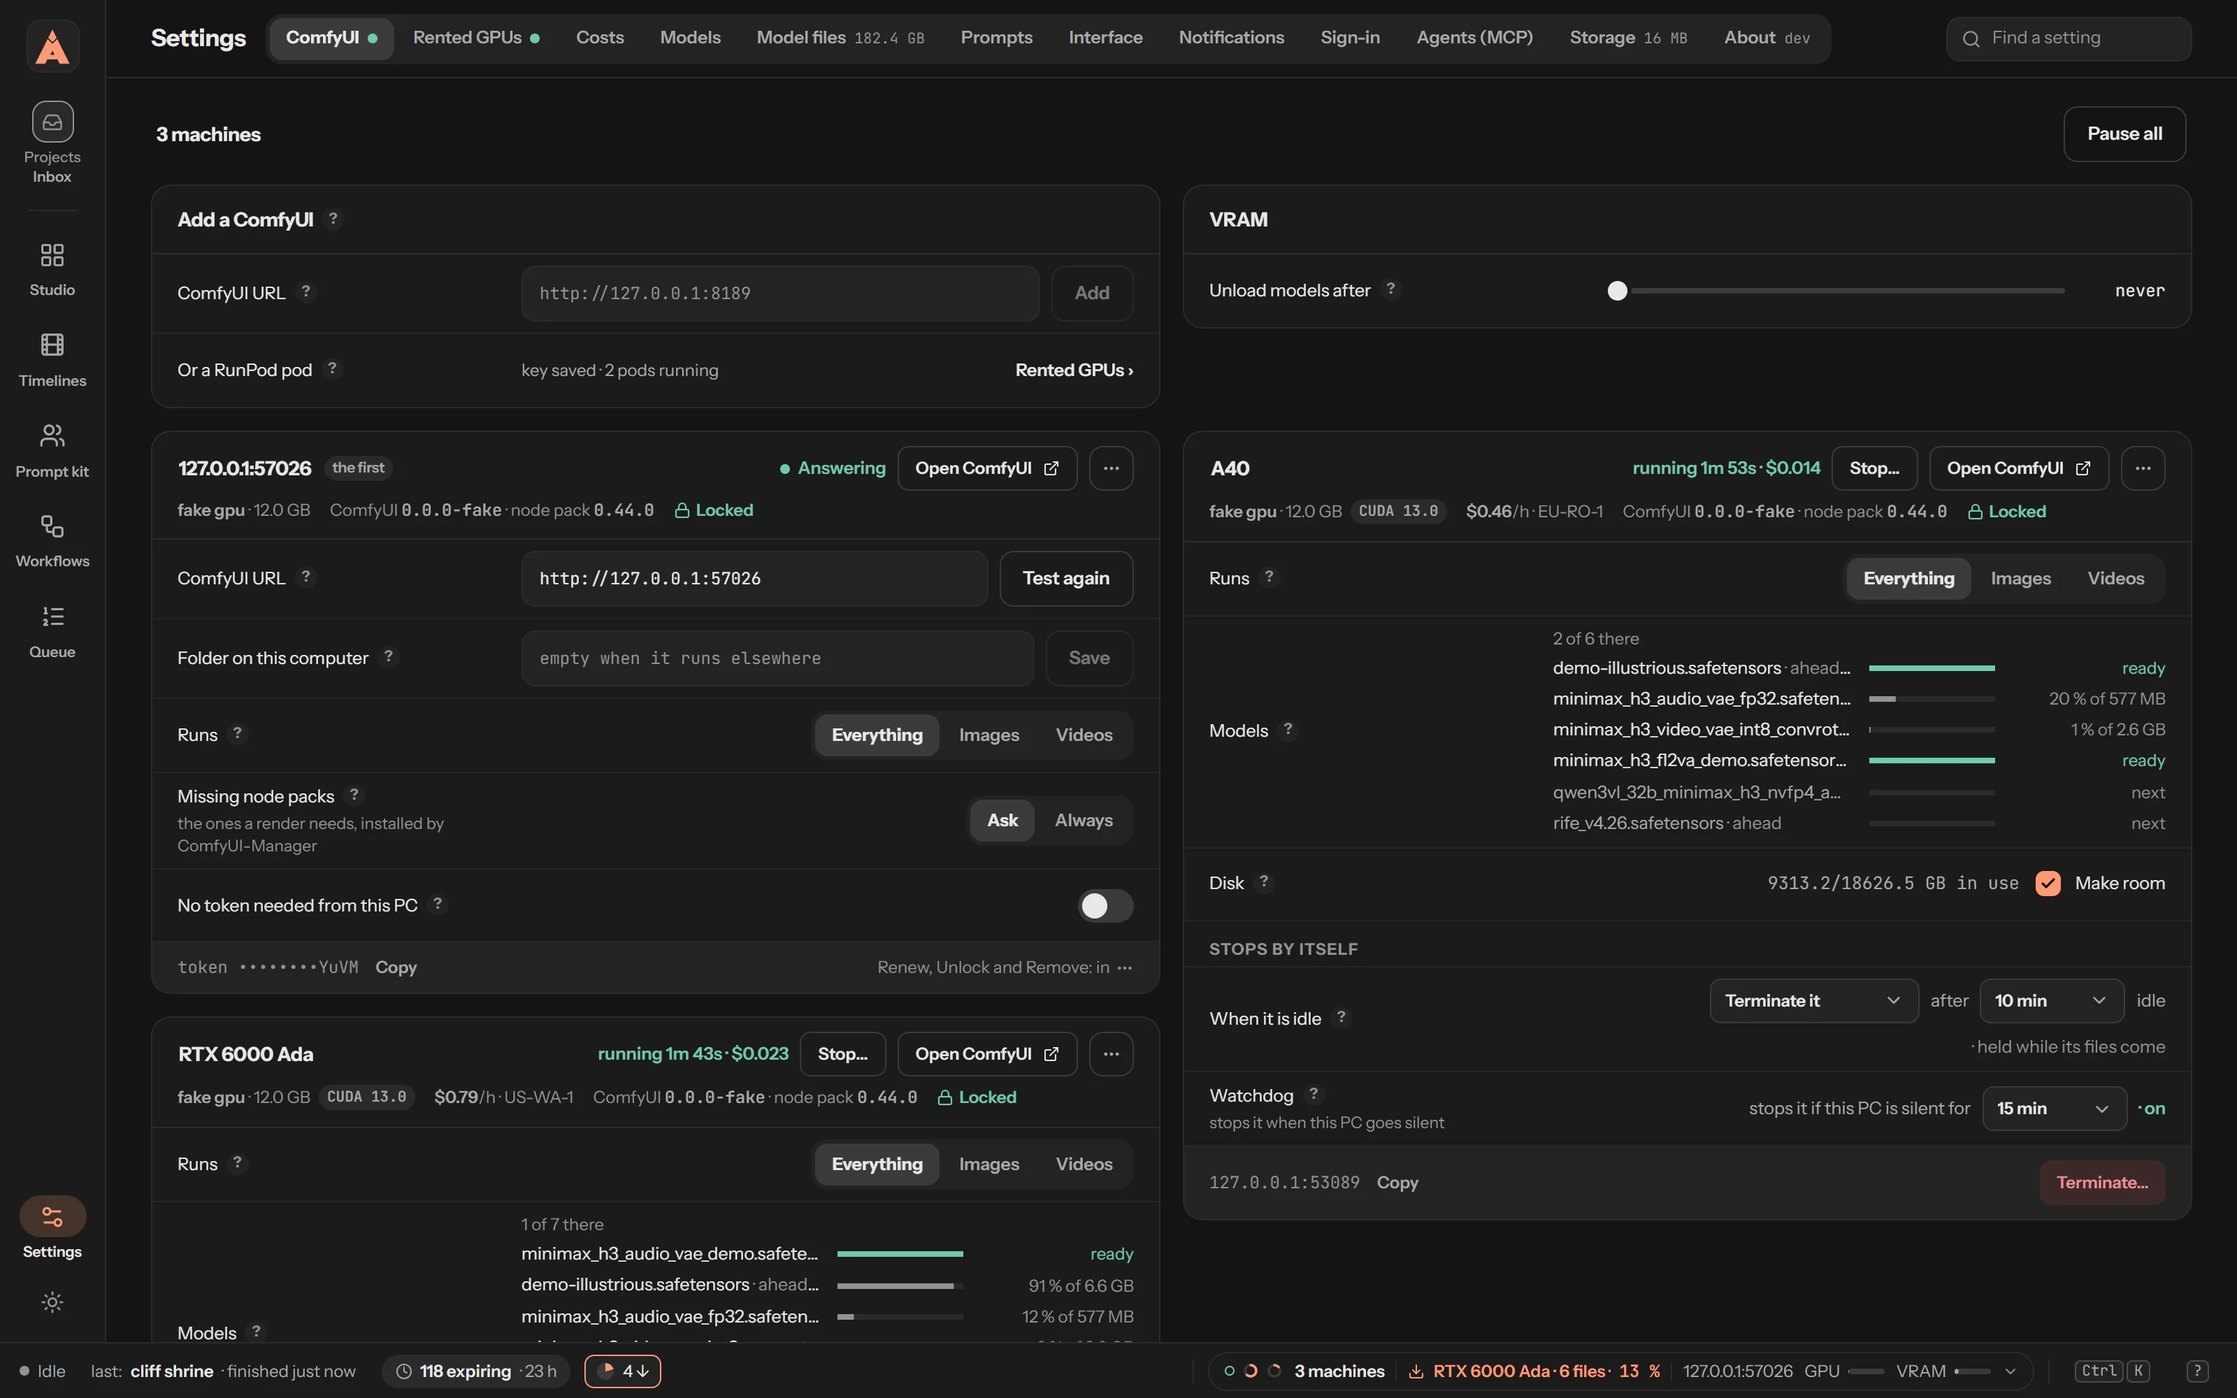
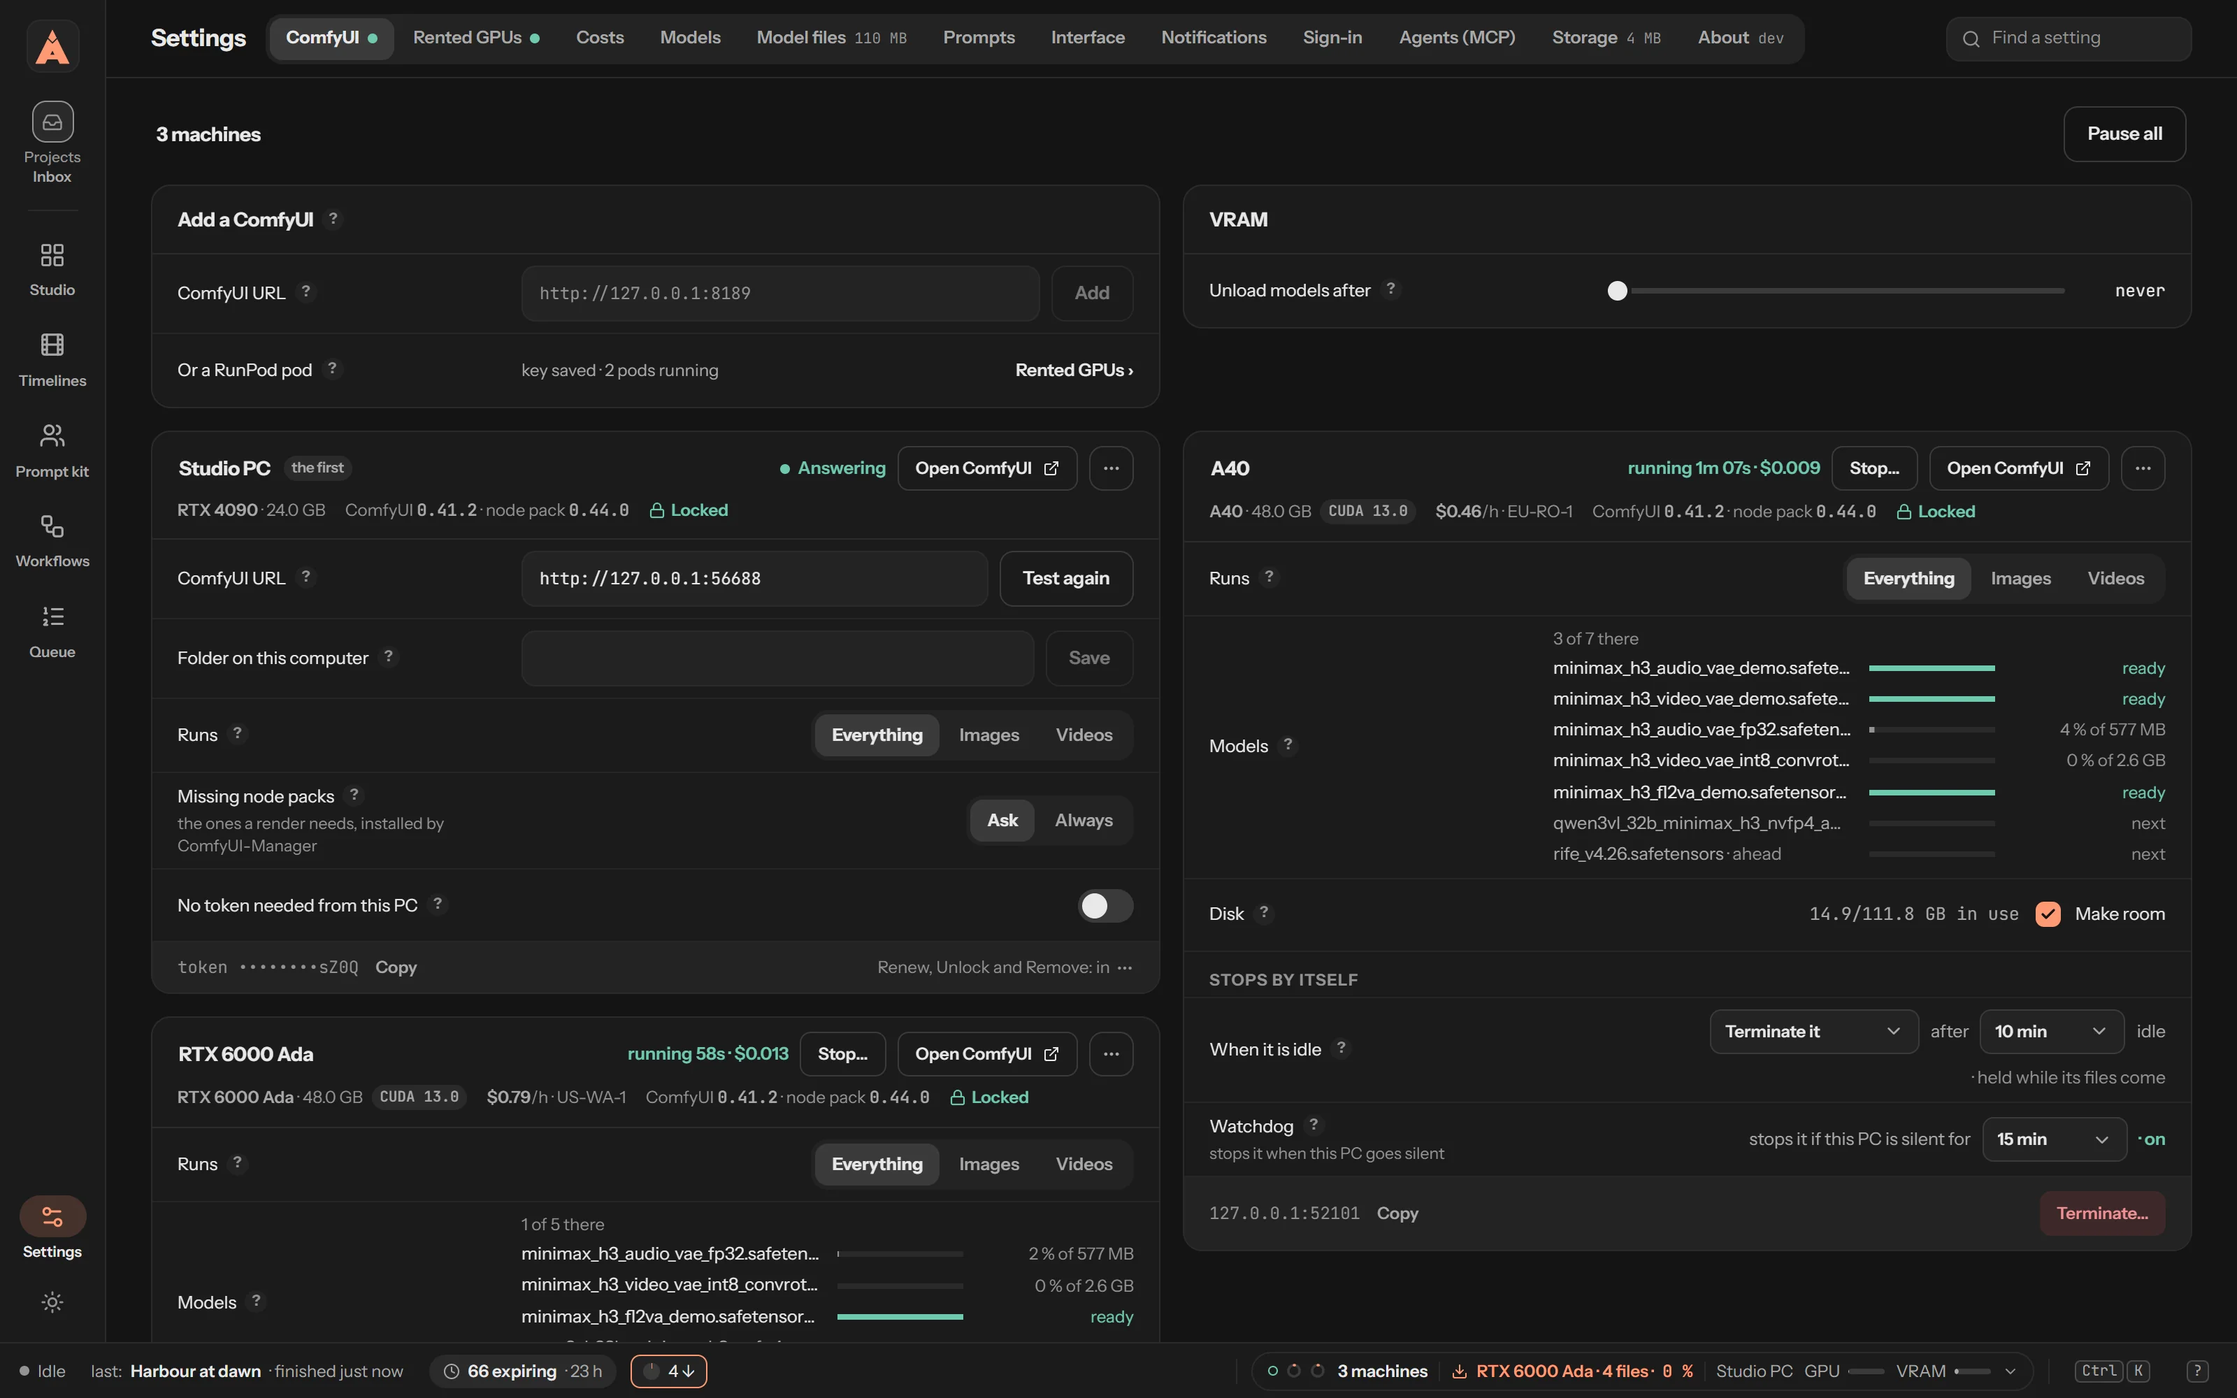
The demo's machines say what a real one would, and the queue and pods pictures retaken with them (card #51)
- The pretend ComfyUI can say a card (device: name, memory) in /system_stats and the live monitor, and a video workflow's own step (simulate.videoStepMs); left out, "fake gpu", 12 GB and one step for all, as the tests have it. The pretend RunPod hands a deployed pod's GPU to spawn.
- The demo: ComfyUI 0.41.2 everywhere; this PC an RTX 4090 24 GB, named "Studio PC" (one machine alone too, its folder kept as it was found), the other machines an RTX 3090 and a 4070 Ti SUPER; each pod its RunPod card and memory, a 120 GB container disk; DEMO_VIDEO_STEP_MS=9000 renders a video in minutes, as the seeded times say (left out, as fast as a picture).
- run.webp and pods.webp shot again on it: Studio PC rendering an H3 clip (2:20 left, 18.7 of 24 GB), the A40 and the RTX 6000 Ada at 48 GB, their files arriving, the disk 14.9 of 111.8 GB.

diff --git a/scripts/demo.ts b/scripts/demo.ts
@@ -3,6 +3,8 @@
  * placeholder pictures. For trying the app, and working on it, without a GPU. It never contacts a real
  * ComfyUI: the address in the demo's settings is set to the pretend one on every start.
  *   pnpm demo            then open http://127.0.0.1:8720 (after `pnpm build`), or run the web app's dev server
+ *   DEMO_VIDEO_STEP_MS=9000  a video's step at a real card's pace (an H3 render in minutes, as the seeded times say),
+ *                            for screenshots; left out, videos go as fast as pictures
  */
 import { spawnSync } from "node:child_process";
 import { createServer } from "node:http";
@@ -140,9 +142,12 @@ const pretendComfy = (lacks?: RegExp, first = false) => startFakeComfy({
     // H3's Fun ControlNet: Motion transfer's windows moved by their pose
     model_patches: ["minimax_h3_fun_controlnet_union_2.0_demo.safetensors"],
   }, lacks),
-  simulate: { stepMs: Number(process.env.DEMO_STEP_MS) || 220, video: pretendClip },
-});
+  simulate: { stepMs: Number(process.env.DEMO_STEP_MS) || 220, videoStepMs: Number(process.env.DEMO_VIDEO_STEP_MS) || undefined, video: pretendClip },
+}).then((c) => Object.assign(c, { version: "0.41.2" }));
 const fake = await pretendComfy(undefined, true);
+// the card each pretend ComfyUI says it has (/system_stats, the live monitor), as a real one would: this computer's first
+const CARDS = [{ name: "NVIDIA GeForce RTX 4090", vramGb: 24 }, { name: "NVIDIA GeForce RTX 3090", vramGb: 24 }, { name: "NVIDIA GeForce RTX 4070 Ti SUPER", vramGb: 16 }];
+fake.device = CARDS[0];
 if (oldComfy) fake.version = oldComfy;
 if (pretendPytorch) fake.pytorch = pretendPytorch;
 // DEMO_MACHINES=2 (up to 8): as many pretend ComfyUIs, as if this computer had that many GPUs (Settings › ComfyUI, the queue's lanes)
@@ -153,6 +158,7 @@ const others = await Promise.all(Array.from({ length: Math.min(7, Math.max(0, (N
 // the pretend ComfyUIs run this repository's node pack, as one Afflatus wrote it into does: its lock among what can be tried
 const PACK = /^version\s*=\s*"([^"]+)"/m.exec(readFileSync(join(root, "comfy-nodes", "afflatus-nodes", "pyproject.toml"), "utf-8"))?.[1] ?? null;
 for (const f of [fake, ...others]) f.packVersion = PACK;
+others.forEach((f, i) => (f.device = CARDS[(i + 1) % CARDS.length]));
 // and its GPU's power, as the pack reads it on an NVIDIA card: a demo render's electricity in Queue › Costs
 for (const f of [fake, ...others]) f.watts = 265;
 // DEMO_RUNPOD=1: a pretend RunPod with three pods (two with a pretend ComfyUI and the node pack, one without ComfyUI's
@@ -161,8 +167,9 @@ for (const f of [fake, ...others]) f.watts = 265;
 // (start.sh's steps, ComfyUI's start) before its ComfyUI answers
 const RUNPOD_KEY = "demo-runpod-key";
 const podComfys: Array<Awaited<ReturnType<typeof pretendComfy>>> = [];
-const pod = async () => {
-  const c = Object.assign(await pretendComfy(), { packVersion: PACK });
+// each pod says its RunPod card and memory, and a container disk of 120 GB with its models' room on it
+const pod = async (gpu: { id: string; memory: number }) => {
+  const c = Object.assign(await pretendComfy(), { packVersion: PACK, device: { name: gpu.id, vramGb: gpu.memory }, diskTotal: 120e9, diskFree: 104e9 });
   // a LoRA and a checkpoint this PC's ComfyUI lacks: the lists say which pod has them, and a job that picks one goes there
   c.models.loras = [...(c.models.loras ?? []), "demo-pod-only-ink.safetensors"];
   c.models.checkpoints = [...(c.models.checkpoints ?? []), "demo-pod-only-xl.safetensors"];
@@ -198,9 +205,9 @@ const pretendRunpod = process.env.DEMO_RUNPOD === "1" ? await startFakeRunpod({
   gpus: FAKE_GPUS.map((g) => (g.id === "NVIDIA L4" ? { ...g, cuda13: false } : g)),
   volumes: [{ id: "demo-volume", name: "afflatus-models", size: 100, dataCenter: "EU-RO-1" }, { id: "demo-old", name: "old-loras", size: 50, dataCenter: "US-TX-3" }],
   pods: [
-    { name: "comfy-5090", rate: 0.69, gpu: "NVIDIA GeForce RTX 5090", dataCenterId: "EU-RO-1", ports: ["8188/http", "22/tcp"], diskGb: 50, volumeId: "demo-volume", comfy: await pod() },
-    { name: "a100-tests", rate: 1.64, gpu: "NVIDIA A100", dataCenterId: "US-TX-3", ports: ["8188/http"], diskGb: 80, comfy: await pod() },
-    { name: "jupyter-only", rate: 0.34, gpu: "NVIDIA RTX A4000", dataCenterId: "EU-SE-1", ports: ["8888/http"], diskGb: 20, comfy: await pod() },
+    { name: "comfy-5090", rate: 0.69, gpu: "NVIDIA GeForce RTX 5090", dataCenterId: "EU-RO-1", ports: ["8188/http", "22/tcp"], diskGb: 50, volumeId: "demo-volume", comfy: await pod({ id: "NVIDIA GeForce RTX 5090", memory: 32 }) },
+    { name: "a100-tests", rate: 1.64, gpu: "NVIDIA A100", dataCenterId: "US-TX-3", ports: ["8188/http"], diskGb: 80, comfy: await pod({ id: "NVIDIA A100 80GB PCIe", memory: 80 }) },
+    { name: "jupyter-only", rate: 0.34, gpu: "NVIDIA RTX A4000", dataCenterId: "EU-SE-1", ports: ["8888/http"], diskGb: 20, comfy: await pod({ id: "NVIDIA RTX A4000", memory: 16 }) },
   ],
 }) : null;
 if (pretendRunpod) {
@@ -373,10 +380,9 @@ mkdirSync(dataDir, { recursive: true });
 const db = openSqlite(takeOver(dataDir));
 await migrate(db);
 await writeSettings(db, { comfyUrl: fake.url, llm: { baseUrl: llmUrl, model: "pretend-designer", apiKey: "", vision: false } });
-if (others.length) {
-  const names = ["Studio PC", "Second GPU", "Garage PC", "Cloud", "Office PC", "Laptop", "Rack 1", "Rack 2"];
-  await writeSettings(db, { machines: [fake, ...others].map((f, i) => ({ id: `m${i + 1}`, name: names[i]!, url: f.url, dir: "", takes: "all" as const })) });
-}
+// named as a user names them ("Studio PC"), rather than by the pretend ComfyUI's port, one machine alone too
+const names = ["Studio PC", "Second GPU", "Garage PC", "Cloud", "Office PC", "Laptop", "Rack 1", "Rack 2"];
+await writeSettings(db, { machines: [fake, ...others].map((f, i) => ({ id: `m${i + 1}`, name: names[i]!, url: f.url, dir: i === 0 && folderPaths ? demoComfy : "", takes: "all" as const })) });
 
 // a few months of pretend render times, so that the "Render times" tab has something to show
 await seedRenderTimes(db);

diff --git a/packages/comfy/src/fake/simulate.ts b/packages/comfy/src/fake/simulate.ts
@@ -49,8 +49,10 @@ export function fakeSimulate(fake: FakeState, opts: NonNullable<FakeInit["simula
   const stillWanted = (id: string) => !closed && (fake.pending.includes(id) || fake.running.includes(id));
   const ended = (id: string) => send("executing", { node: null, prompt_id: id });
   const run = async (id: string) => {
-    const stepMs = opts.stepMs;
     const graph = fake.prompts.get(id)!;
+    // a video workflow at its own pace when one is given (the demo: minutes, as a real one takes)
+    const video = Object.values(graph).some((node) => /VideoCombine|SaveVideo|SaveAnimated/i.test(node.class_type));
+    const stepMs = video ? (opts.videoStepMs ?? opts.stepMs) : opts.stepMs;
     if (!stillWanted(id)) return;
     // running before it leaves the waiting line: the count ComfyUI broadcasts on each change never dips between the two
     fake.running = [...fake.running, id];
@@ -134,11 +136,12 @@ export function fakeSimulate(fake: FakeState, opts: NonNullable<FakeInit["simula
   };
   const load = setInterval(() => {
     const busy = fake.running.length > 0;
+    const vram = fake.device?.vramGb ?? 12;
     send("dasiwa.system_monitor", {
       cpu_percent: busy ? 22 : 6, cpu_count: 16,
       ram: { used: 19e9, total: 32e9, percent: 59 }, swap: { used: 1e9, total: 40e9, percent: 2 },
       disks: [{ path: "/", percent: 61, read_mb_s: 0, write_mb_s: busy ? 1.2 : 0 }],
-      gpus: [{ name: "Pretend GPU", utilization: busy ? 97 : 2, memory_used: (busy ? 9.4 : 1.3) * 2 ** 30, memory_total: 12 * 2 ** 30, memory_percent: busy ? 78 : 11, temperature: busy ? 74 : 41 }],
+      gpus: [{ name: fake.device?.name ?? "Pretend GPU", utilization: busy ? 97 : 2, memory_used: vram * (busy ? 0.78 : 0.11) * 2 ** 30, memory_total: vram * 2 ** 30, memory_percent: busy ? 78 : 11, temperature: busy ? 74 : 41 }],
     });
   }, 1000);
   return {

diff --git a/packages/comfy/src/fake/runpod.ts b/packages/comfy/src/fake/runpod.ts
@@ -200,7 +200,7 @@ const WORSE = { HIGH: 0, MEDIUM: 1, LOW: 2, NONE: 3 } as const;
  * reaches it as RunPod's proxy would. A pod is deployed (POST /v2/pods) on a GPU of `gpus`, with a pretend ComfyUI `spawn`
  * makes; it is PROVISIONING for `bootMs` (its image pulled), then RUNNING.
  */
-export async function startFakeRunpod(o: { key: string; pods: Array<Omit<FakePod, "id" | "startedAt" | "status" | "env"> & { status?: FakePod["status"]; env?: Record<string, string> }>; balance?: number; bootMs?: number; pullMs?: number; startMs?: number; gpus?: FakeGpu[]; volumes?: FakeVolume[]; spawn?: () => Promise<FakeComfy> }): Promise<FakeRunpod> {
+export async function startFakeRunpod(o: { key: string; pods: Array<Omit<FakePod, "id" | "startedAt" | "status" | "env"> & { status?: FakePod["status"]; env?: Record<string, string> }>; balance?: number; bootMs?: number; pullMs?: number; startMs?: number; gpus?: FakeGpu[]; volumes?: FakeVolume[]; spawn?: (gpu: FakeGpu) => Promise<FakeComfy> }): Promise<FakeRunpod> {
   const pods: FakePod[] = o.pods.map((p) => {
     const status = p.status ?? "EXITED";
     p.comfy.down = status !== "RUNNING";
@@ -455,7 +455,7 @@ export async function startFakeRunpod(o: { key: string; pods: Array<Omit<FakePod
       const at = free.find((d) => !volume || d.id === volume.dataCenter);
       if (!at) return json(400, { title: "Bad Request", status: 400, detail: NO_CAPACITY });
       if (!o.spawn) return json(500, { title: "Error", status: 500, detail: "this pretend RunPod deploys nothing (no spawn)" });
-      const comfy = await o.spawn();
+      const comfy = await o.spawn(gpu);
       comfy.down = true;
       const made: FakePod = {
         id: new URL(comfy.url).port, name: body.name, status: "PROVISIONING", rate: (body.cloud === "COMMUNITY" ? gpu.price.community : gpu.price.secure) ?? 0,

diff --git a/packages/comfy/src/testing.ts b/packages/comfy/src/testing.ts
@@ -93,6 +93,8 @@ export interface FakeComfy {
   ram: { total: number; free: number } | null;
   /** The ComfyUI version its /system_stats says (comfyui_version). */
   version: string;
+  /** Its card, as /system_stats and the live monitor say it (name, memory in GB); left out: "fake gpu", 12 GB. The demo's. */
+  device?: { name: string; vramGb: number };
   /** The PyTorch its /system_stats says (pytorch_version: "2.10.0+cu130"); null: not said, as a ComfyUI older than that field. */
   pytorch: string | null;
   /**
@@ -175,6 +177,8 @@ export interface FakeInit extends Partial<Pick<FakeComfy, "catalog" | "models" |
    */
   simulate?: {
     stepMs: number;
+    /** A video workflow's step, when it differs; left out: stepMs. */
+    videoStepMs?: number;
     /** What a video workflow "renders": an MP4, or a function that makes one for the graph it was sent. Without it, video prompts fail. */
     video?: Uint8Array | ((graph: Graph, seed: number) => Uint8Array | undefined);
   };

diff --git a/packages/comfy/src/fake/routes.ts b/packages/comfy/src/fake/routes.ts
@@ -16,7 +16,7 @@ export function fakeRoutes(fake: FakeState, hooks: { queued(promptId: string, cl
     if (method === "GET") {
       if (path === "/system_stats") {
         const ram = fake.ram ? { ram_total: fake.ram.total, ram_free: fake.ram.free } : {};
-        return json(200, { system: { comfyui_version: fake.version, ...(fake.pytorch ? { pytorch_version: fake.pytorch } : {}), ...ram }, devices: [{ name: "fake gpu", vram_total: 12 * 2 ** 30, vram_free: 8 * 2 ** 30 }] });
+        return json(200, { system: { comfyui_version: fake.version, ...(fake.pytorch ? { pytorch_version: fake.pytorch } : {}), ...ram }, devices: [{ name: fake.device?.name ?? "fake gpu", vram_total: (fake.device?.vramGb ?? 12) * 2 ** 30, vram_free: (fake.device?.vramGb ?? 12) * (2 / 3) * 2 ** 30 }] });
       }
       if (path === "/object_info") return json(200, fake.catalog);
       // one node type, as ComfyUI answers it: that type alone, or nothing when it does not have it

diff --git a/README.md b/README.md
@@ -72,7 +72,7 @@ Clips are easy to make. A film is the hard part, and that is what the timeline i
 
 ## Run
 
-<p align="center"><img src="docs/media/run.webp" alt="The queue with a lane per machine: this PC and two rented pods, all three rendering; each waiting render says which machine it goes to and when, one of them while the A40 gets its files" width="820"></p>
+<p align="center"><img src="docs/media/run.webp" alt="The queue with a lane per machine: this PC rendering a MiniMax H3 clip, two rented pods rendering pictures; each waiting render says which machine it goes to and when" width="820"></p>
 
 - **One smart queue.** Add every ComfyUI you have: a second GPU, another PC, a rented pod. Each job goes to the machine that will finish it first, counting whether that machine already holds the model and how fast it has been on your own renders. Pin a job to a machine, or send a whole timeline there.
 - **You see where the time went.** Before you press Render, the form says how long it will take, from your past renders on that machine. Afterwards, **Render times** accounts for every minute: GPU time, jobs and video made over any period, how much went to loading models, how far off the estimates were, the queue's waits, VRAM peaks and out-of-memory stops; per model, its share, its usual time and whether it ran slower than usual; a lane per model you can drag to zoom; and flags that name what went wrong and offer the fix, sort the queue by model, open the log. On every machine you run, rented ones included.
@@ -91,7 +91,7 @@ No big card, or a queue longer than the night? Rent one. Afflatus deploys a pod 
   > **RTX 2000 Ada found.** Deployed in EU-RO-1 at $0.24/h, after 1 min of hunting; 1 render waiting for it.
   > **RTX 2000 Ada terminated.** Why: idle 5 min. This run: $0.04.
 - **It stops itself.** After the idle time you set, when Afflatus goes quiet (a watchdog on the pod), when the pod never comes up or its GPU fails. Daily and monthly caps stop the pods once their render ends and refuse new deploys until the day or the month turns.
-<p align="center"><img src="docs/media/pods.webp" alt="Settings › ComfyUI: this PC beside a rented A40 and an RTX 6000 Ada fetching their models, all locked, the A40 with its idle stop and watchdog" width="820"><br><sub>Two pods two minutes in: their models arriving, locked, $0.014 so far on the A40.</sub></p>
+<p align="center"><img src="docs/media/pods.webp" alt="Settings › ComfyUI: this PC beside a rented A40 and an RTX 6000 Ada fetching their models, all locked, the A40 with its idle stop and watchdog" width="820"><br><sub>Two pods a minute in: their models arriving, locked, $0.009 so far on the A40.</sub></p>
 
 - **You always know.** Telegram or Discord tells you when the hunt found a GPU, when a pod stops and when a cap is reached, and the Costs page shows RunPod's own bill, each render priced at its session's rate.
 
